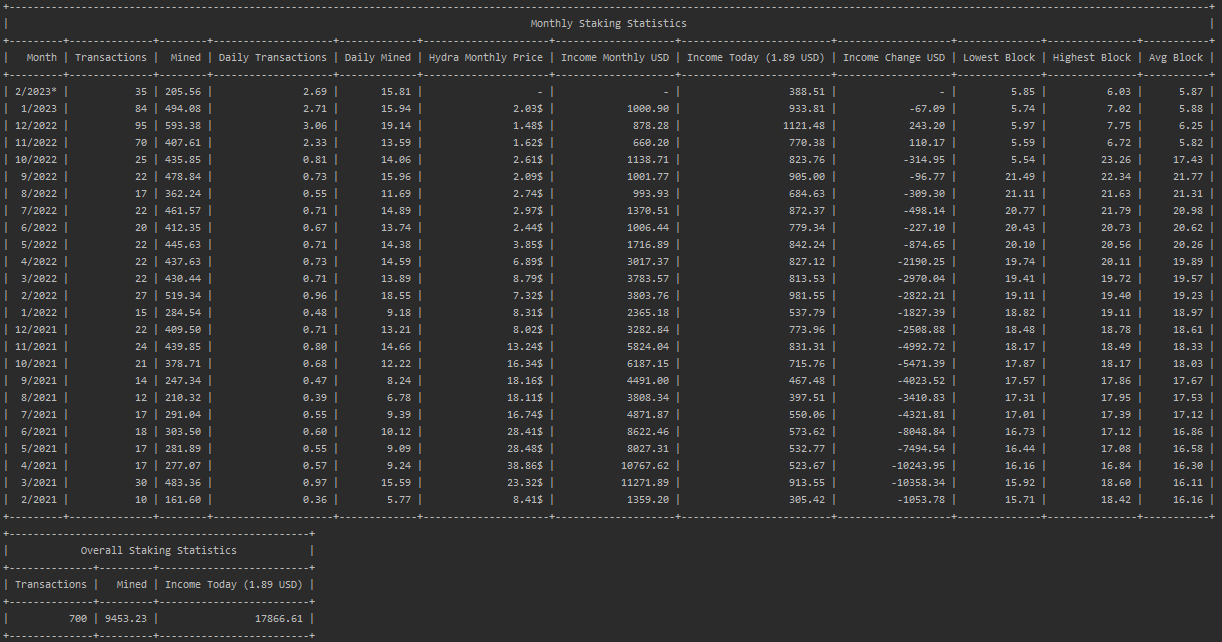
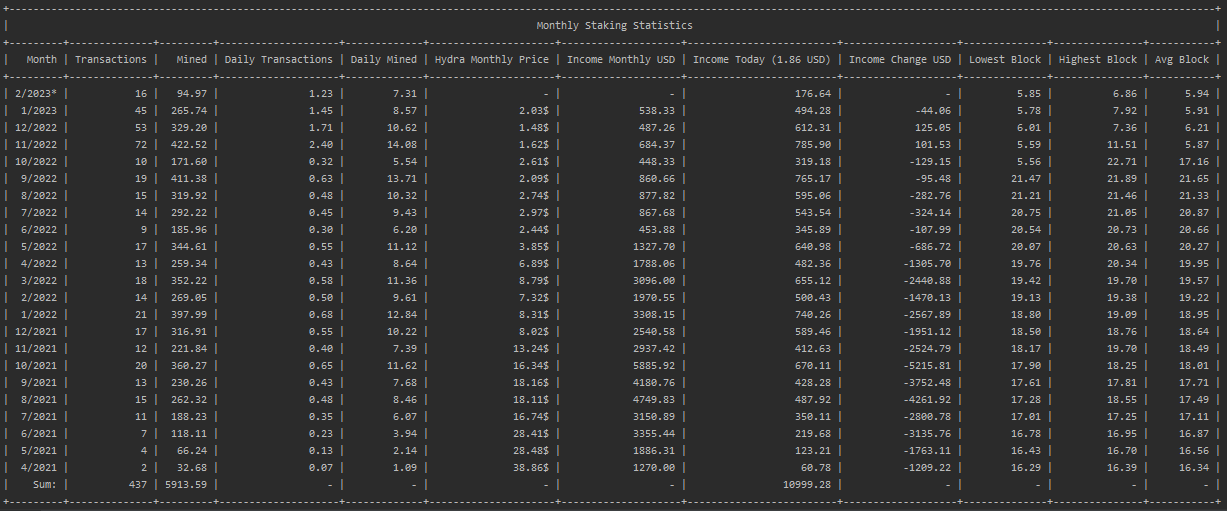
The overall statistics have been merged with the monthly table as a sum of the columns at the bottom of the table

Changed region(s): [[0.0, 0.0, 0.9951, 0.998], [0.2488, 0.9687, 0.2799, 0.998]]

diff --git a/hydrachain-staking-statistics.py b/hydrachain-staking-statistics.py
@@ -99,17 +99,20 @@ for monthlyStakingExtendedStatisticDate in monthlyStakingExtendedStatistics:
     ])
     pass
 
-print(tableMontlyStakingStatistics)
 
-# Overall Staking Statistics
-
-tableOverallStakingStatistics = pt(title="Overall Staking Statistics")
-tableOverallStakingStatistics.field_names = ["Transactions", "Mined", "Income Today ({:.2f} {})".format(hydraPriceTodayUSD * usdToSelectedCurrencyRate, currency)]
-tableOverallStakingStatistics.align = "r"
-tableOverallStakingStatistics.add_row([
+tableMontlyStakingStatistics.add_row([
+    "Sum:",
     totalTransactionsOverall,
-    round(totalIncomeHydraOverall, 2),
-    round(totalIncomeHydraOverall * hydraPriceTodayUSD * usdToSelectedCurrencyRate, 2),
+    "{:.2f}".format(totalIncomeHydraOverall),
+    "-",
+    "-",
+    "-",
+    "-",
+    "{:.2f}".format(totalIncomeHydraOverall * hydraPriceTodayUSD * usdToSelectedCurrencyRate),
+    "-",
+    "-",
+    "-",
+    "-",
 ])
 
-print(tableOverallStakingStatistics)
+print(tableMontlyStakingStatistics)

diff --git a/README.md b/README.md
@@ -43,14 +43,6 @@ A console based tool for generating staking statistics from a exported csv file.
 | Highest Block                   | The highest mined block for the month.                       |
 | Avg Block                       | The average mined block for the month                        |
 
-- **Overall Staking Statistics:**
-
-| Column                          | Description                                                  |
-| ------------------------------- | ------------------------------------------------------------ |
-| Transactions                    | The total staking transactions.                              |
-| Mined                           | The total staking hydra income.                              |
-| Income Today *(PRICE CURRENCY)* | The total staking earning by the today hydra price in a selected currency. |
-
 ## Future:
 
 - Option to get the staking statistics by public address
